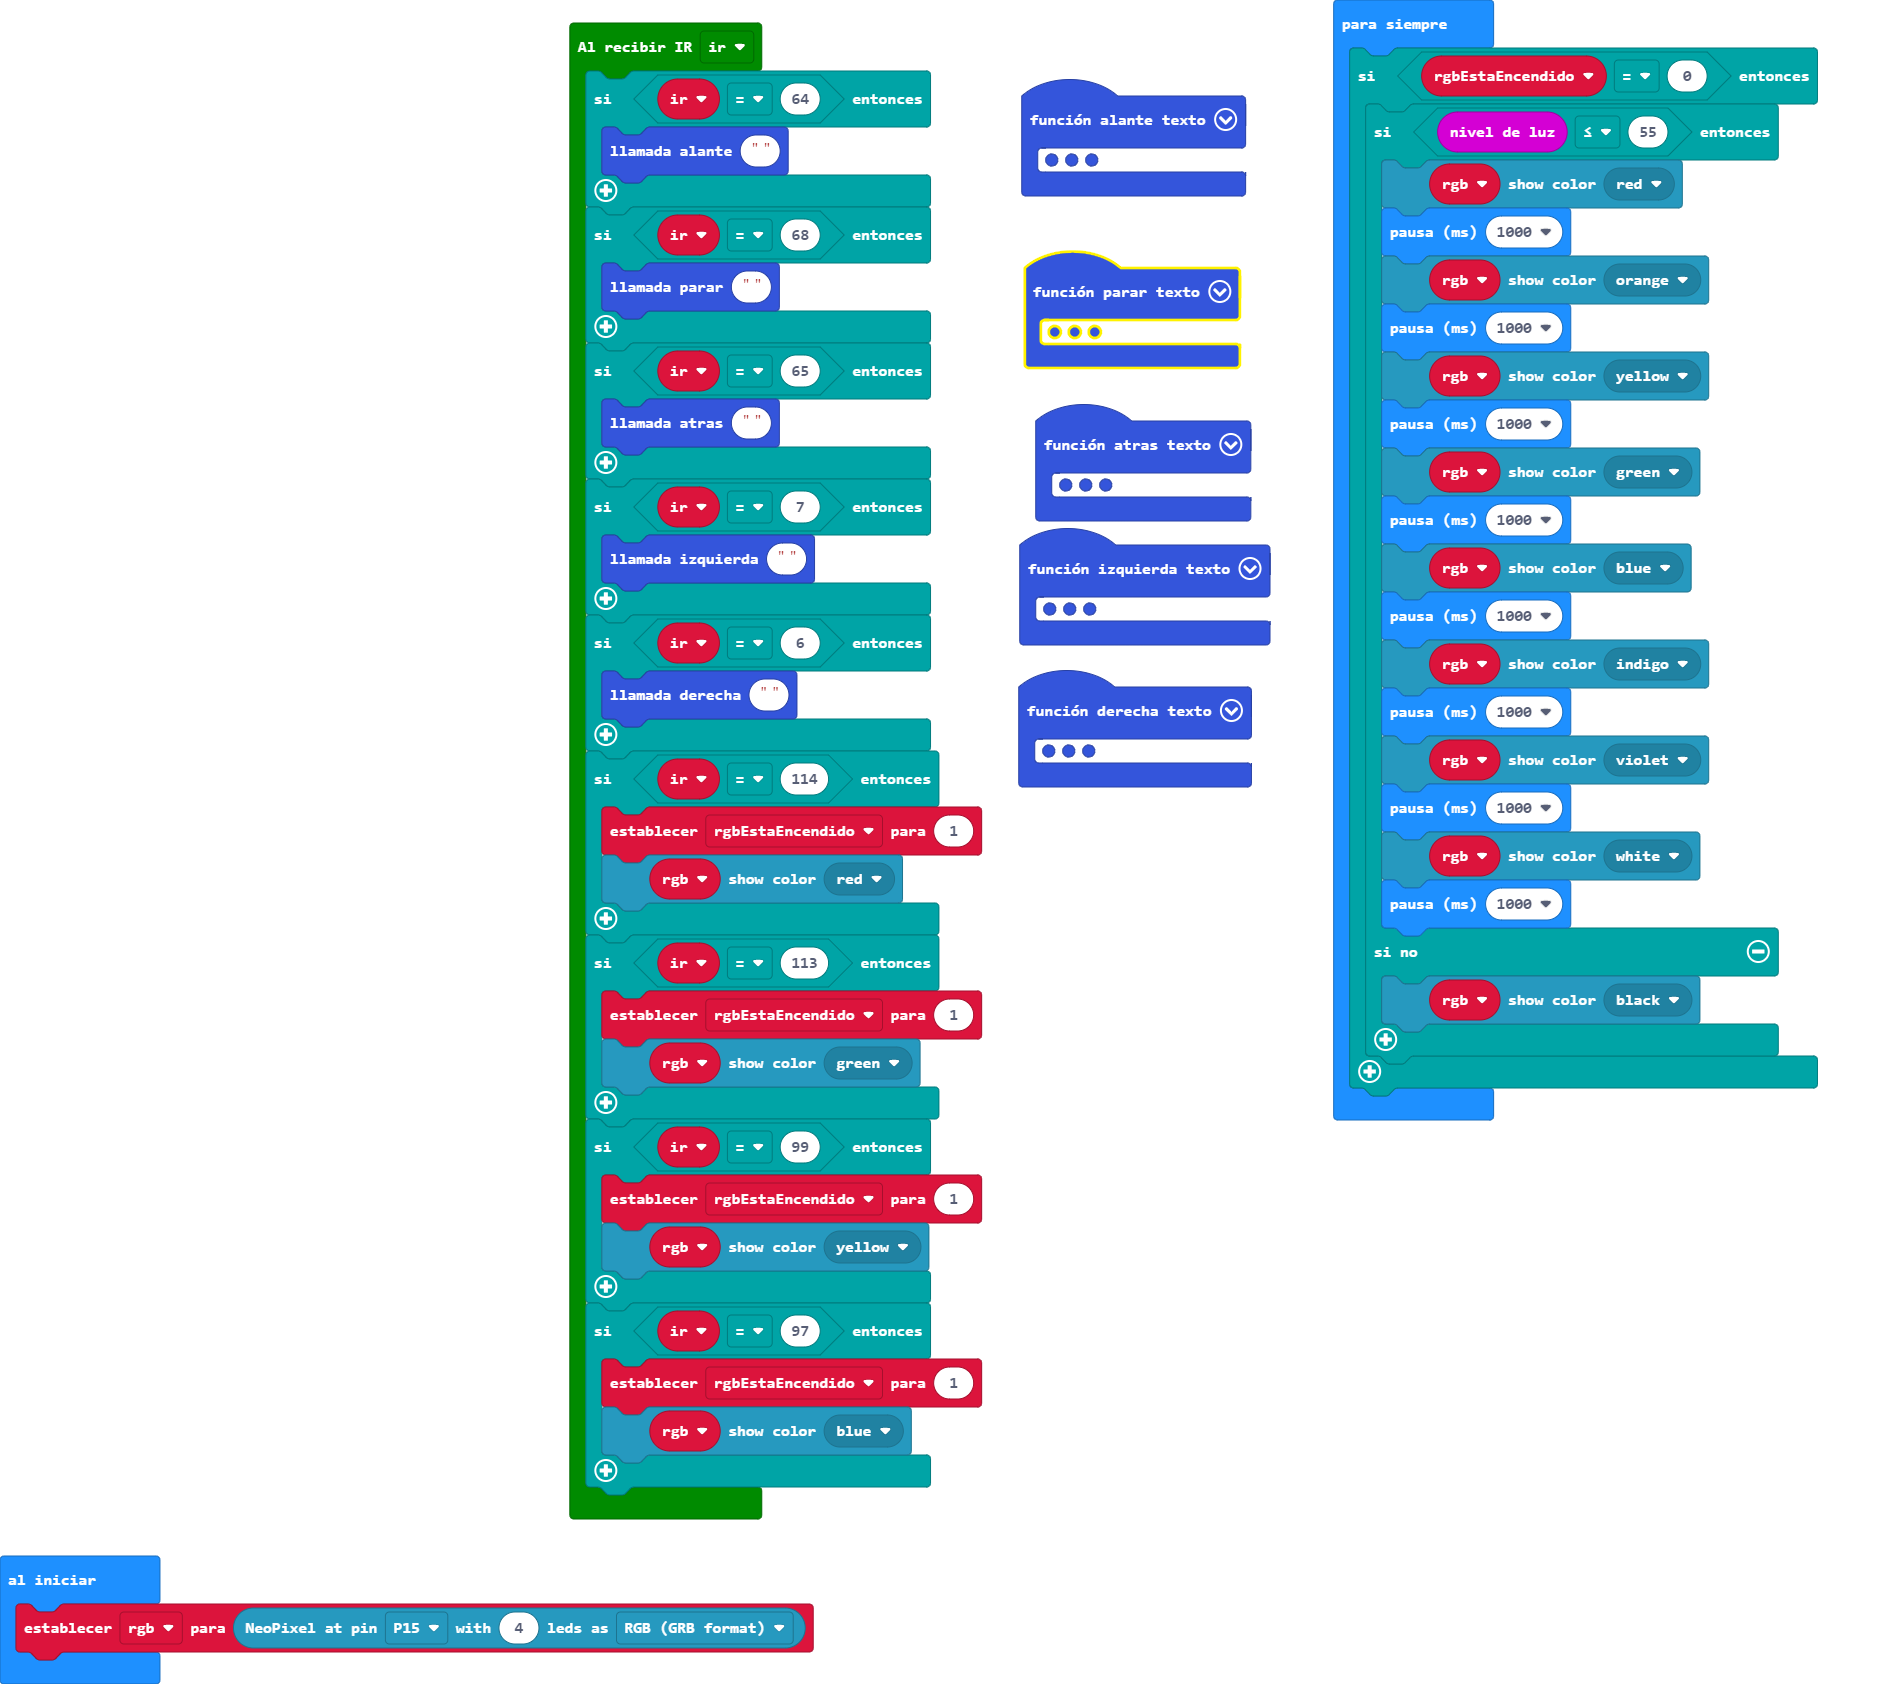
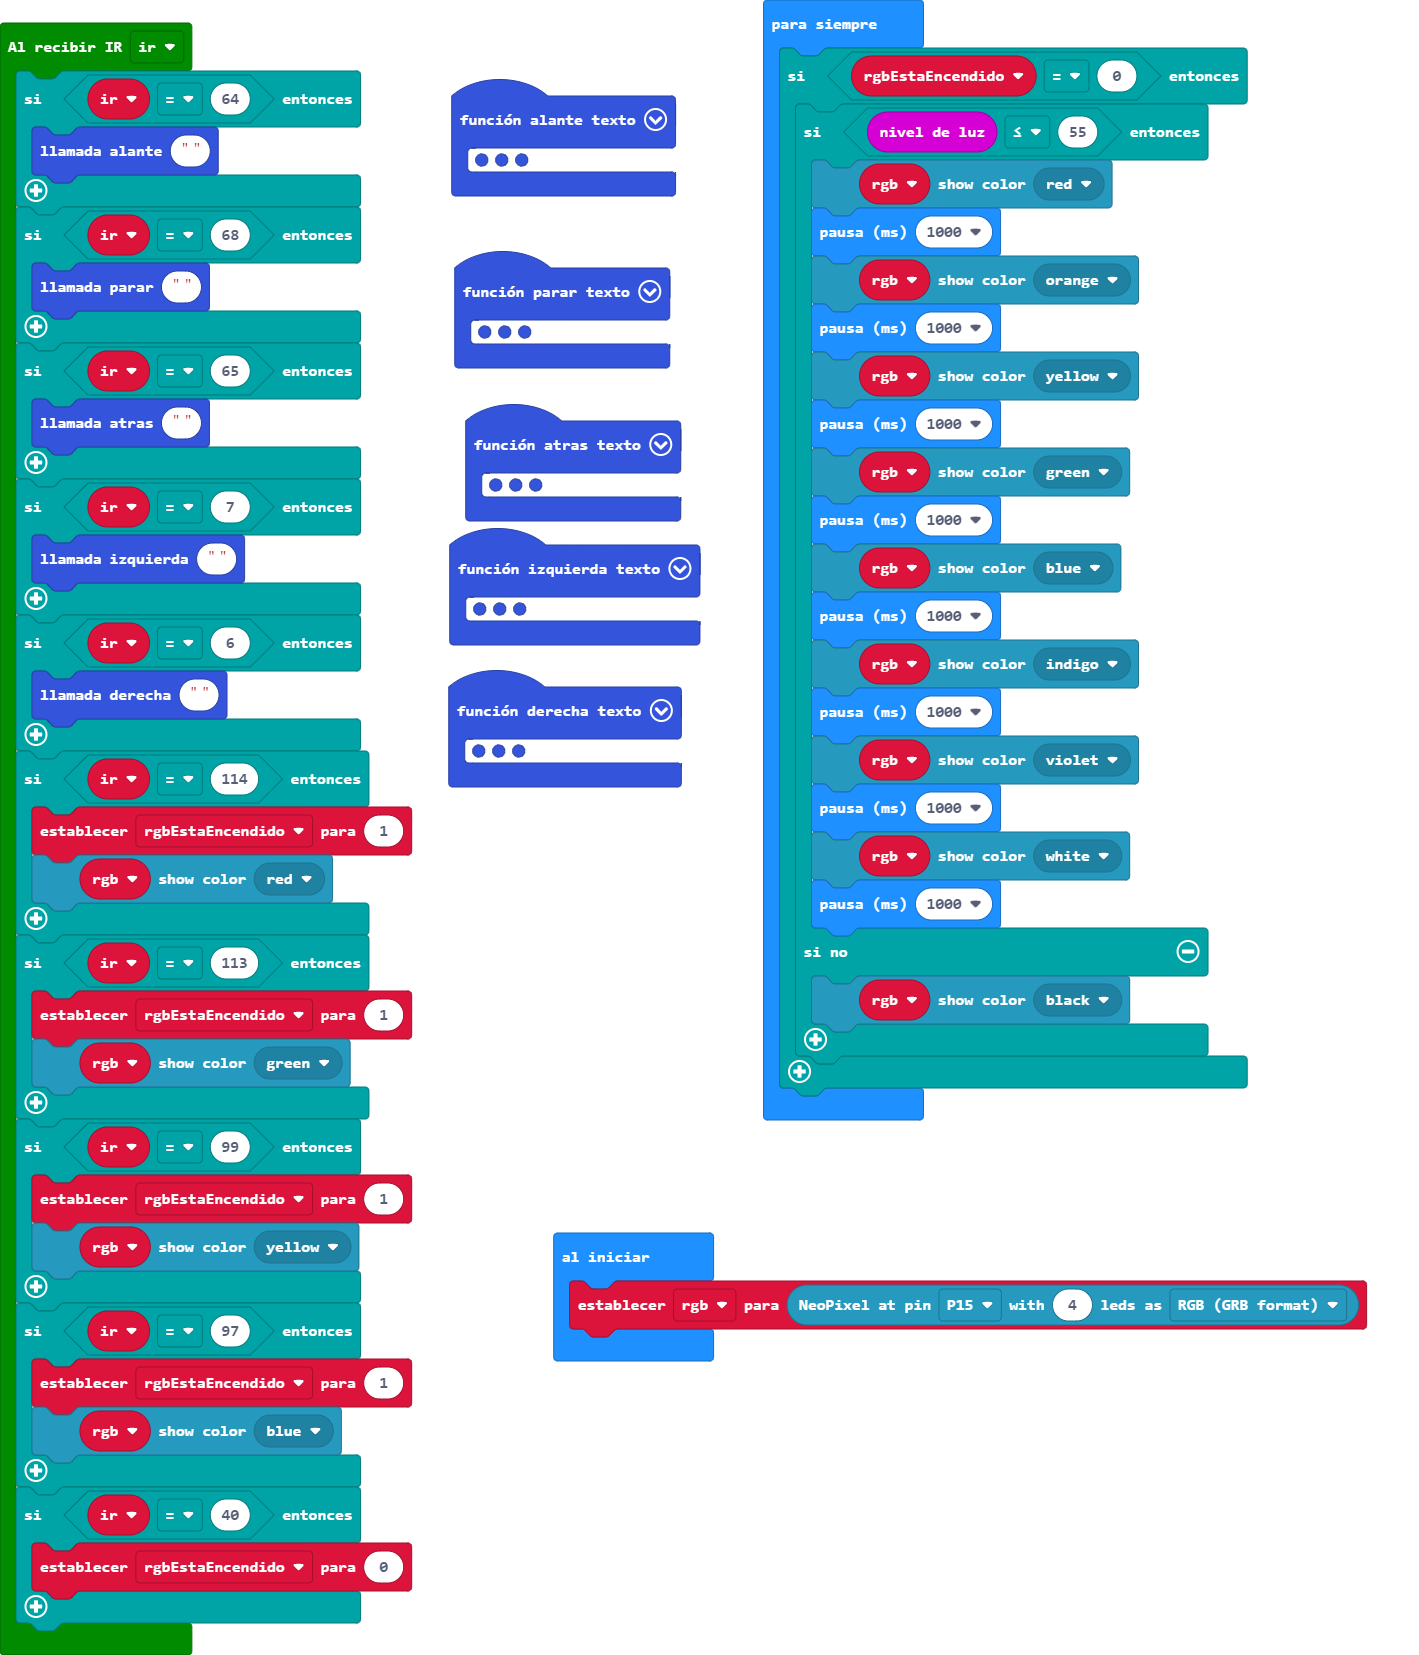
Update main.blocks, main.ts

diff --git a/main.ts b/main.ts
@@ -42,6 +42,9 @@ maqueen.IR_callbackUser(function (ir) {
         rgbEstaEncendido = 1
         rgb.showColor(neopixel.colors(NeoPixelColors.Blue))
     }
+    if (ir == 40) {
+        rgbEstaEncendido = 0
+    }
 })
 function alante (texto: string) {
     basic.showLeds(`
@@ -56,9 +59,7 @@ function alante (texto: string) {
     maqueen.writeLED(maqueen.LED.LEDRight, maqueen.LEDswitch.turnOn)
 }
 function parar (texto: string) {
-    rgbEstaEncendido = 0
     maqueen.motorStop(maqueen.Motors.All)
-    rgb.showColor(neopixel.colors(NeoPixelColors.Black))
     maqueen.writeLED(maqueen.LED.LEDLeft, maqueen.LEDswitch.turnOff)
     maqueen.writeLED(maqueen.LED.LEDRight, maqueen.LEDswitch.turnOff)
     basic.showLeds(`
